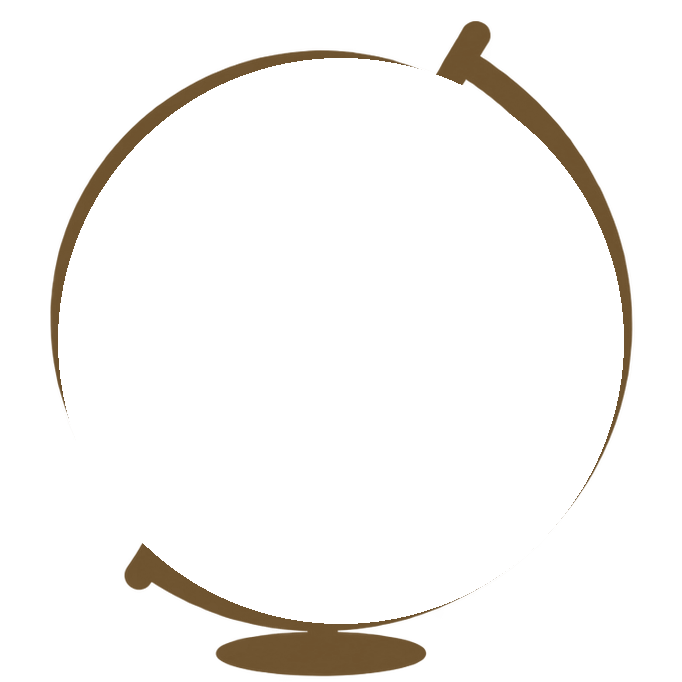
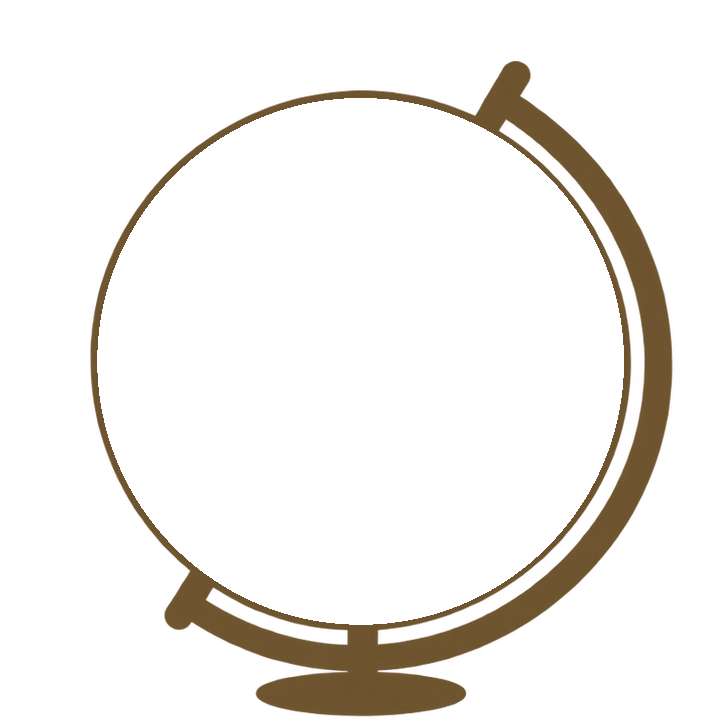
GoReview: only the continents travel on the loading globe; the rim no longer rides along
The cutting script measured the sphere from the bounding box of every enclosed hole in the logo, gaps between the rim and the meridian arc included, so its circle sat off-centre and too wide: a crescent of the rim and the stand's top bar went into the land layer and slid round with the continents (the owner, 2026-10-28: "the white arch that goes around with the globe"). The script now takes the sphere's interior alone (the largest enclosed region), fits a circle to its edge by least squares along 720 rays, dropping the rays where land covers the edge, and keeps the land 2 px short of that edge so the rim's softened inner pixels stay still. Layers and geometry recut; the sphere's clip circle in the stylesheet follows (33.57%).

diff --git a/packages/goreview/app/styles.css b/packages/goreview/app/styles.css
@@ -494,7 +494,7 @@ img, svg, video, canvas { max-width: 100%; }
 .go-globe { position: relative; display: block; width: 104px; height: 104px; }
 .go-globe > span { position: absolute; inset: 0; display: block; }
 .go-globe-frame, .go-globe-rim { background: currentColor; -webkit-mask-size: contain; -webkit-mask-position: center; -webkit-mask-repeat: no-repeat; mask-size: contain; mask-position: center; mask-repeat: no-repeat; }
-.go-globe-sphere { overflow: hidden; clip-path: circle(38.56% at 50% 50%); transform: rotate(32deg); }
+.go-globe-sphere { overflow: hidden; clip-path: circle(33.57% at 50% 50%); transform: rotate(32deg); }
 .go-globe-turn { position: absolute; top: 0; left: 0; width: 200%; height: 100%; display: block; animation: go-turn 3.6s linear infinite; will-change: transform; }
 .go-globe-land { position: absolute; inset: 0; display: block; background: currentColor; -webkit-mask-size: 50% 100%; -webkit-mask-position: 0 0; -webkit-mask-repeat: repeat-x; mask-size: 50% 100%; mask-position: 0 0; mask-repeat: repeat-x; }
 @keyframes go-turn { from { transform: translateX(-50%); } to { transform: translateX(0); } }
